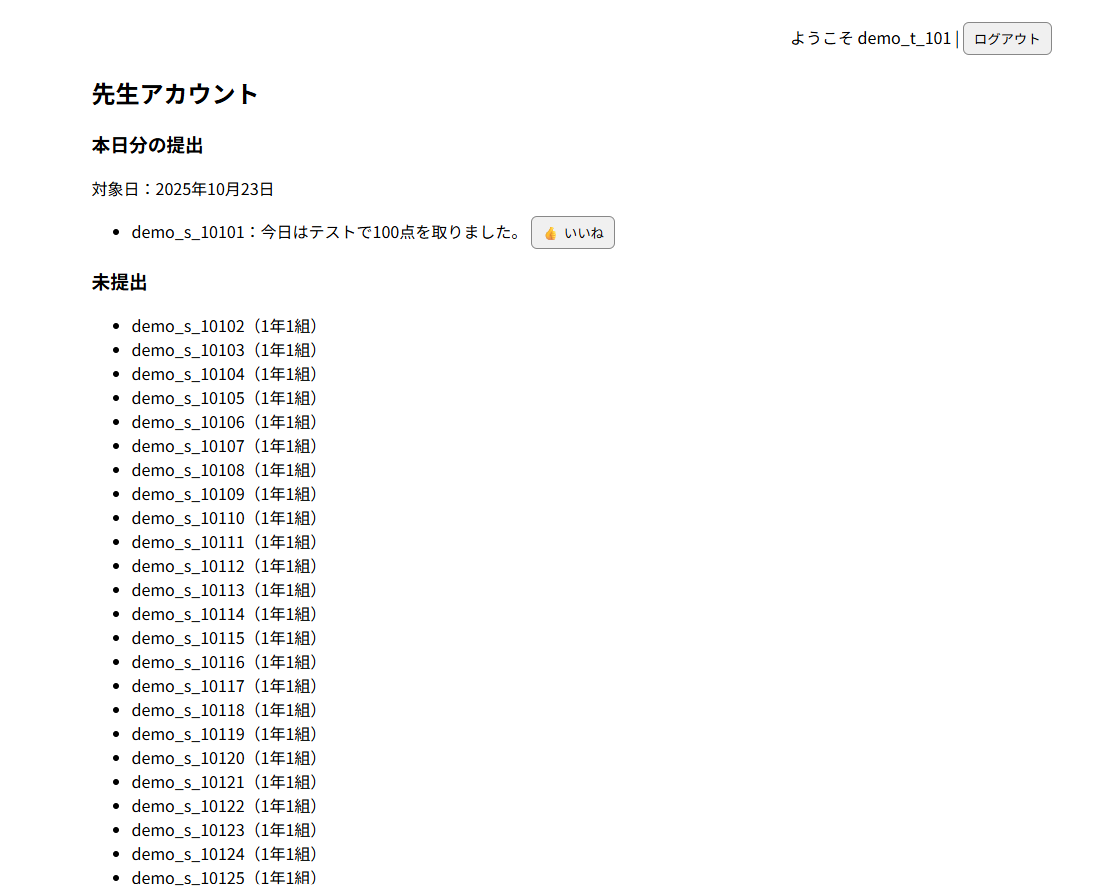
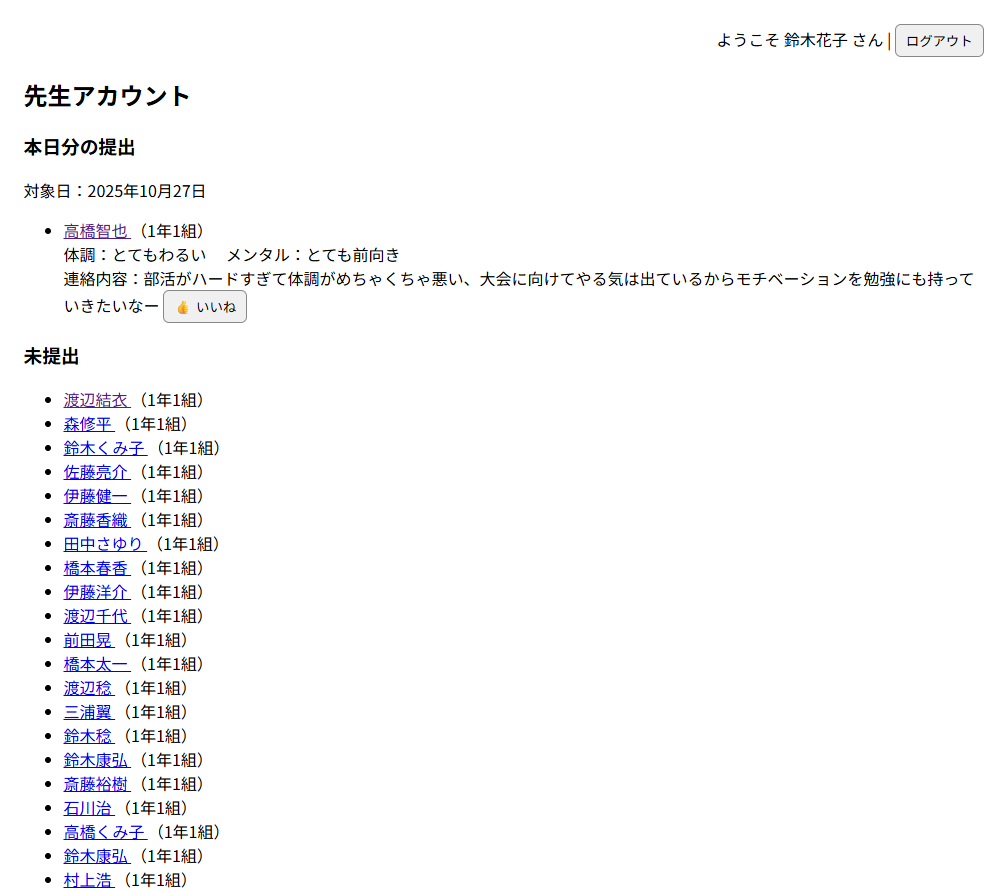
運用マニュアル作成に伴うコミット

Changed region(s): [[0.0308, 0.1522, 0.9553, 1.0], [0.7087, 0.0304, 0.9861, 0.0913], [0.0, 0.0913, 0.2465, 0.1218]]

diff --git a/doc/Web課題_運用マニュアル.md b/doc/Web課題_運用マニュアル.md
@@ -57,11 +57,14 @@ https://jpt-intern-fyf0b3ebavbufger.japanwest-01.azurewebsites.net
 ### 5.2 生徒の操作手順
 1. ログイン後、「前登校日分の提出」画面に移動します。
 2. 前登校日の内容を入力（入力日の前日が土日の場合はその前の平日が提出対象となります。追加実装として同様に前日が祝日の場合もその前の平日が提出対象となるように実装しています。）    
-   - 前登校日の振り返りをテキスト欄にて自由記述です。 
-3. 「提出」ボタンで提出完了となり、登録完了のメッセージが表示されます。 なお、先生の既読処理が行われるまでは同画面で「更新して提出」ボタンを押すことで編集・再提出が可能です。
-4. 「ホームへ戻る」リンクから過去記録を閲覧が可能です。（内容は編集不可）  
+   - 「体調」はプルダウンメニューで「とてもわるい」～「とてもよい」の5段階から選択可能となっています。
+   - 「メンタル」も同様にプルダウンメニューで「とても落ち込み気味」～「とても前向き」の5段階から選択可能となっています。
+   - 前登校日の振り返り内容はテキスト欄にて自由記述です。 
+3. 「提出」ボタンで提出完了となり、提出完了のメッセージが表示されます。 なお、先生の既読処理が行われるまでは同画面で「更新して提出」ボタンを押すことで編集・再提出が可能です。
+4. 「連絡帳履歴に移動」リンクから過去記録を閲覧が可能です。（内容は編集不可）  
 
-> 記入例：   
+> 記入例：
+> -  体調：ふつう　メンタル：よい
 > - 「連絡帳の内容を入力」テキスト欄：数学の小テストを復習しました。部活では基礎練習を行いました。
 
 ※ 画面詳細は下図を参照してください。
@@ -77,27 +80,42 @@ https://jpt-intern-fyf0b3ebavbufger.japanwest-01.azurewebsites.net
 3. 提出済み生徒の連絡帳は「本日分の提出」項目に、未提出の生徒は「未提出」の項目にそれぞれ表示されます。  
 4. 確認・既読処理については「👍 いいね」ボタンを押してください。なお、先生アカウントでは生徒の連絡帳の内容を編集することはできません。  
 5. 押下後は「👍 いいね済み」になり、既読処理が完了します。
-6. 既読処理完了後、画面下部の「履歴（最新200件）」欄に「👍 いいね済み」の履歴と既読処理をした日時が表示されます。  
-一度既読処理を完了すると既読処理の取り消しをすることが出来ません。なお、履歴のテキストボックスから生徒IDやキーワードなどで検索をすることも可能です。
+6. 既読処理完了後、画面下部の「履歴（最新200件）」欄に「👍 いいね済み」の履歴と既読処理をした担当教師/日時が表示されます。  
+一度既読処理を完了すると先生アカウントでは既読処理の取り消しをすることが出来ません。なお、履歴のテキストボックスから生徒IDやキーワードなどで検索をすることも可能です。  
+また、当日既読処理を行うことが出来なかった場合も履歴から「👍 いいね」ボタンを押下することで既読処理にすることが可能です。
+7. 追加機能として生徒名にリンクを設けており、リンク押下をすると履歴からその生徒の履歴を抽出することも可能です。  
+元に戻す場合は「全履歴表示に戻る」ボタンで全履歴表示に戻すことが可能です。
 
 ※ 画面詳細は下図を参照してください。
 > ![先生アカウント_既読前](manual/先生アカウント_既読前.png)
 > ![先生アカウント_既読後](manual/先生アカウント_既読後.png)
-> ![先生アカウント_履歴](manual/先生アカウント_履歴.png)
+> ![先生アカウント_履歴1](manual/先生アカウント_履歴1.png)
+> ![先生アカウント_履歴2](manual/先生アカウント_履歴2.png)
+> ![先生アカウント_履歴3](manual/先生アカウント_履歴3.png)
 
 ---
 
 ### 5.4 管理者の操作手順
 1. 管理者画面`/admin/`にアクセスすると**サイト管理**画面に遷移します。  
 
-2. **クラス** の作成   
-   - クラスを追加する場合：**Core → Class rooms** 右部にある「+追加」ボタンから登録
+2. **クラス** の作成  
+（※ 本PoCでは仕様を満たすクラスを既に作成済みのため対応範囲外の実装、現時点で不要の操作となります。）  
+
+   - クラス（例：1年4組）を追加する場合：**CORE → Class rooms** 右部にある「+追加」ボタンから登録  
+   「Grade」からプルダウンで学年を選択、「Name」に学級名（例：`4組`）を入力。  
+   「Homeroom teacher」を`TEACHER`権限を持つユーザーの中からプルダウンで選択（ユーザーIDを手入力で絞り込みが可能）し、  
+   「保存」ボタン押下で作成が可能となります。  
+   なお、`TEACHER`権限を持たないユーザーの指定も可能ですが不具合が生じる可能性があります。（動作保証外）  
+   また、SQLのUNIQUE制約により同一学年かつ同一クラスの登録は出来ません。
+
    - ※学年（year）は初期設定時に一度だけ登録します（データ投入時に登録済の状態）。  
      運用中の追加・変更は想定していませんので登録手順は割愛いたします。  
-     なお、`year` フィールドには SQL の UNIQUE 制約を設定しており、同一学年の重複登録を防止します。  
+     なお、`year` フィールドにはSQLのUNIQUE 制約を設定しており、同一学年の重複登録を防止します。  
      （例：「1年（`year=1`）」を2回登録しようとするとエラーが発生します）
 
-3. **生徒・担任アカウント** の作成
+3. **生徒・担任アカウント** の作成  
+（※ 本PoCでは仕様を満たすユーザーデータを既に作成済みのため対応範囲外の実装、現時点で不要の操作となります。） 
+
    1. 管理画面メニューの「認証と認可 → ユーザー」を開きます。  
    2. 右上の「追加」ボタンを押し、ユーザー登録画面を開きます。  
    3. 以下の項目を入力・設定してください。
@@ -110,12 +128,24 @@ https://jpt-intern-fyf0b3ebavbufger.japanwest-01.azurewebsites.net
       - 先生の場合：**TEACHER**
       - 管理者の場合：**ADMIN**  
       → 右矢印（>）で「選択されたグループ」に移動
-      ※ 複数の権限も付与することが可能です。
+      ※ 複数の権限も付与することも操作上可能ですが、本PoC段階では1権限1画面を前提としておりますので不具合が生じる可能性があります。
 
    5. ページ最下部の **「保存」ボタン** を押して登録完了です。  
 
 ※ 詳細な画面操作は下図を参照してください。  
 > ![ユーザー権限付与](manual/ユーザー権限付与.png)
+
+5. **既読処理の取り消し機能** （追加実装）
+   1. 管理画面メニューの「CORE → Entries」を開きます。  
+   2. 「変更する entry を選択」画面で`STATUS`が「既読」となっている任意の連絡帳を`STUDENT`のリンクから選択して押下します  
+   3. 「entry を変更」画面にて、最下部にある「未読に戻す」ボタンを押下してください。 
+   4. 画面上部にメッセージが表示され`Status`が「未読（提出済み）」に戻り、既読状態が取り消しとなります。  
+   既読処理取り消し後は、再度生徒用連絡帳画面で内容の編集や先生アカウント画面にて既読処理を再度行うことが可能です。
+
+   ※ 詳細な画面操作は下図を参照してください。  
+   > ![既読処理取り消し1](manual/既読処理取り消し1.png)
+   > ![既読処理取り消し2](manual/既読処理取り消し2.png)
+   > ![既読処理取り消し3](manual/既読処理取り消し3.png)
 
 ### 5.5 ログアウト
 1. 各画面上部に「ログアウト」ボタン/リンクを設けております。  
@@ -132,7 +162,7 @@ https://jpt-intern-fyf0b3ebavbufger.japanwest-01.azurewebsites.net
 ### 6.2 補足
 - 本システムでは、既読処理が行われた時点でデータを「過去記録」として扱います。  
 - 学年・クラス構成は PoC のため最小構成（投入デモデータ分）で実装しています。  
-- 長期休暇は仕様上考慮しておりません。（追加機能として実装を検討）
+- 長期休暇は仕様上考慮しておりません。
 
 ### 6.3 動作テスト実施について
 開発環境にて全テストを通過済です（`python manage.py test` 実行にて確認済み）。  
@@ -142,7 +172,6 @@ https://jpt-intern-fyf0b3ebavbufger.japanwest-01.azurewebsites.net
 ---
 
 ## 7. 注意事項
-- 提出データは編集不可となります。（既読→未読処理を追加機能として実装予定）
 - 本システムはPoC（概念実証）のため、モバイル環境での最適化は行っていません。  
 - データベースは SQLite を使用しています（PoCレベルの軽量DB）。
 - 想定データ件数：生徒270名＋教員9名（投入デモデータ分）。
